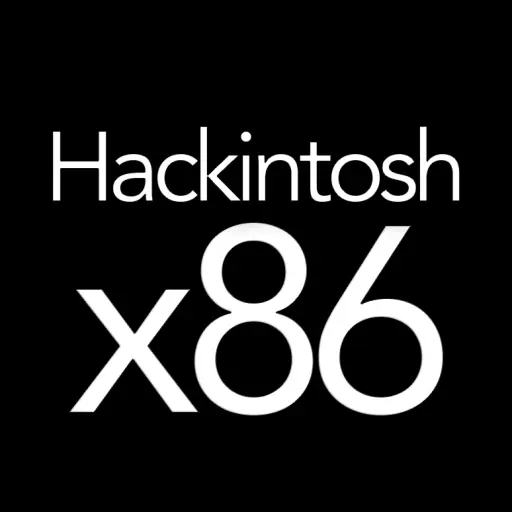
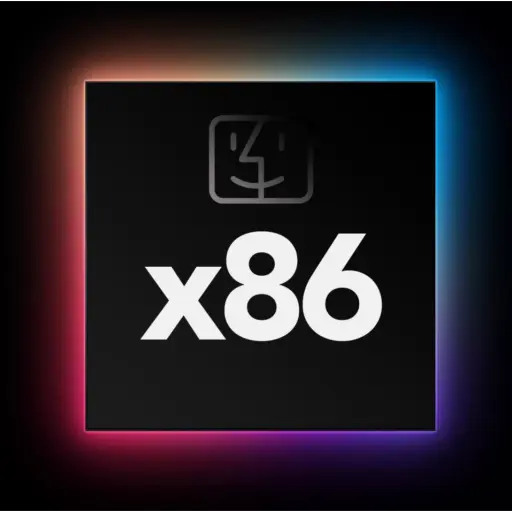
Fix Invalid/Expired Invites (#34)
* Remove developlace.it

Invite link has been invalidated/expired, and at the same time, the server couldn't be found anywhere in publicly accessible places. The server invite link was initially taken from its Git repository.

* Update NodeCG invite

* Update Hackintosh x86 icon

* Update Hackintosh x86 details

* Update *nix nest invite

* Update CyberSecLabs Lounge details

* Remove Akroma Official

Invite link has been invalidated/expired, the official documentation/site/repository all leads to the same invalid link.

* Update Nano invite

* Update Bevy details

* Remove Electronics Repair School

Due to prolonged period of expired invite link, and the absense of any other publicly available link, this community is being removed. It will be relisted as soon as a new working invite will be published.

diff --git a/README.md b/README.md
@@ -108,13 +108,6 @@ Language: English
 Notable Channels: `#javascript`, `#frontend`, `#backend`, `#php`, `#mobile`, `#design`, `#devops`, `#career`, `#code-review`, `#webtopic`, `#desktopic`, `#community-projects`, `#paid-work`\
 Language: English
 
-<img align="left" height="94px" width="94px" alt="Server Icon" src="images/server_icons/developlace_it.webp" />
-
-[__developlace.it__](https://discord.com/invite/Fprsyxz) [<img height="16px" width="16px" alt="Git Repository" src="images/badges/git.webp">](https://github.com/developlace) \
-Notable Channels: `#projects`, `#web`, `#c_cpp`, `#c_sharp`,`#python`, `#jvm`, `#other`, `#pc_zone`, `#mobile_zone` \
-Language: English, Polish \
-<br />
-
 <img align="left" height="94px" width="94px" alt="Server Icon" src="images/server_icons/engineerman.webp" />
 
 [__EngineerMan__](https://discord.com/invite/engineerman) [<img height="16px" width="16px" alt="Official Badge" src="images/badges/official.webp">](badges.md#official-identification-badge) [<img height="16px" width="16px" alt="Homepage URL" src="images/badges/homepage.webp">](https://www.youtube.com/channel/UCrUL8K81R4VBzm-KOYwrcxQ) [<img height="16px" width="16px" alt="Git Repository" src="images/badges/git.webp">](https://github.com/engineer-man) \
@@ -348,12 +341,6 @@ Notable Channels: `#release-branch`, `#development-branch`, `#installation-hassi
 Language: English
 
 ### Hardware
-
-<img align="left" height="94px" width="94px" alt="Server Icon" src="images/server_icons/electronics_repair_school.webp" />
-
-[__Electronics Repair School__](https://discord.com/invite/6zQWaTN) [<img height="16px" width="16px" alt="Official Badge" src="images/badges/official.webp">](badges.md#official-identification-badge) [<img height="16px" width="16px" alt="Homepage URL" src="images/badges/homepage.webp">](https://www.youtube.com/channel/UCooKQlg-HZ0PFAPc4Ymg3RA) [<img height="16px" width="16px" alt="Git Repository" src="images/badges/git.webp">](https://github.com/izy521/Sera-PCMR) \
-Notable Channels: `#projects`, `#tools-and-parts`, `#automative`, `#laptops`, `#phones`, `#tablets`, `#consoles`, `#tv-monitor`, `#batteries`, `#diy-arduino-pi` \
-Language: English
 
 <img align="left" height="94px" width="94px" alt="Server Icon" src="images/server_icons/ltt_official.webp" />
 
@@ -777,7 +764,7 @@ Language: English
 
 <img align="left" height="94px" width="94px" alt="Server Icon" src="images/server_icons/nodecg.webp" />
 
-[__NodeCG__](https://discord.com/invite/NNmVz4x) [<img height="16px" width="16px" alt="Official Badge" src="images/badges/official.webp">](badges.md#official-identification-badge) [<img height="16px" width="16px" alt="Homepage URL" src="images/badges/homepage.webp">](https://nodecg.com/) [<img height="16px" width="16px" alt="Git Repository" src="images/badges/git.webp">](https://github.com/nodecg) \
+[__NodeCG__](https://discord.com/invite/GJ4r8a8) [<img height="16px" width="16px" alt="Official Badge" src="images/badges/official.webp">](badges.md#official-identification-badge) [<img height="16px" width="16px" alt="Homepage URL" src="images/badges/homepage.webp">](https://nodecg.com/) [<img height="16px" width="16px" alt="Git Repository" src="images/badges/git.webp">](https://github.com/nodecg) \
 Notable Channels: `#bundle-dev`, `#core-dev`, `#design`, `#typescript`, `#polymer`, `#vue`, `#react`, `#general`, `#post-your-work`, `#looking-for-dev` \
 Language: English, 日本語
 
@@ -1061,7 +1048,7 @@ Language: English
 
 <img align="left" height="94px" width="94px" alt="Server Icon" src="images/server_icons/hackintosh_x86.webp" />
 
-[__Hackintosh x86__](https://discord.com/invite/hackintosh) [<img height="16px" width="16px" alt="Homepage URL" src="images/badges/homepage.webp">](https://www.osx86.io/) [<img height="16px" width="16px" alt="Git Repository" src="images/badges/git.webp">](https://git.osx86.io/) \
+[__Hackintosh x86__](https://discord.com/invite/55sDptx) [<img height="16px" width="16px" alt="Homepage URL" src="images/badges/homepage.webp">](https://www.hackintoshx86.com/) \
 Notable Channels: `#general-chat`, `#opencore`, `#acpi-ssdt`, `#bios-mods`, `#virtualization`, `#hardware`, `#gaming`, `#efi-database`, `#benchmarks` \
 Language: English
 
@@ -1083,7 +1070,7 @@ Language: English
 
 <img align="left" height="94px" width="94px" alt="Server Icon" src="images/server_icons/nix_nest.webp" />
 
-[__*nix nest__](https://discord.gg/shpxu6T) [<img height="16px" width="16px" alt="Git Repository" src="images/badges/git.webp">](https://github.com/nixnest) \
+[__*nix nest__](https://discord.com/invite/svhXktFkAG) [<img height="16px" width="16px" alt="Git Repository" src="images/badges/git.webp">](https://github.com/nixnest) \
 Notable Channels: `#home`, `#dev-random`, `#support`, `#unixporn`, `#programming`, `#media`, `#hardware`, `#gaming` \
 Language: English \
 <br />
@@ -1306,7 +1293,7 @@ Language: English
 
 <img align="left" height="94px" width="94px" alt="Server Icon" src="images/server_icons/cyberseclabs_lounge.webp" />
 
-[__CyberSecLabs Lounge__](https://discord.com/invite/2C9dmtg) [<img height="16px" width="16px" alt="Homepage URL" src="images/badges/homepage.webp">](https://www.cyberseclabs.co.uk/) \
+[__CyberSecLabs Lounge__](https://discord.com/invite/vy75f7W) [<img height="16px" width="16px" alt="Official Badge" src="images/badges/official.webp">](badges.md#official-identification-badge) [<img height="16px" width="16px" alt="Homepage URL" src="images/badges/homepage.webp">](https://www.cyberseclabs.co.uk/) \
 Notable Channels: `#support-labs`, `#challenge-labs`, `#ctf`, `#technical-help`, `#red-teaming`, `#networking`, `#cryptography`, `#programming` \
 Language: English
 
@@ -1389,9 +1376,9 @@ Language: English
 ### Currencies
 
 <!--lint ignore table-pipe-alignment-->
-| <img align="centre" height="94px" width="94px" alt="Server Icon" src="images/server_icons/akroma_official.webp" /> | <img align="centre" height="94px" width="94px" alt="Server Icon" src="images/server_icons/cardano_community.webp" /> | <img align="centre" height="94px" width="94px" alt="Server Icon" src="images/server_icons/ethergem_egem_and_sfrx.webp" /> | <img align="centre" height="94px" width="94px" alt="Server Icon" src="images/server_icons/groestlcoin.webp" /> | <img align="centre" height="94px" width="94px" alt="Server Icon" src="images/server_icons/metrix_market.webp" /> | <img align="centre" height="94px" width="94px" alt="Server Icon" src="images/server_icons/nano.webp" /> | <img align="centre" height="94px" width="94px" alt="Server Icon" src="images/server_icons/vertcoin.webp" /> |
-| ---------------------- | ------------------- | ------------------- | ------------------- | ------------------- | ------------------- | ------------------- |
-| [__Akroma Official__](https://discord.com/invite/KWC8wtT)<br>[<img align="center" height="16px" width="16px" alt="Official Badge" src="images/badges/official.webp">](badges.md#official-identification-badge) [<img align="center" height="16px" width="16px" alt="Homepage URL" src="images/badges/homepage.webp">](https://akroma.io/) [<img align="center" height="16px" width="16px" alt="Git Repository" src="images/badges/git.webp">](https://github.com/akroma-project/akroma) | [__Cardano<br>Community__](https://discord.com/invite/TUr9RDU)<br>[<img align="center" height="16px" width="16px" alt="Official Badge" src="images/badges/official.webp">](badges.md#official-identification-badge) [<img align="center" height="16px" width="16px" alt="Homepage URL" src="images/badges/homepage.webp">](https://www.cardano.org/) [<img align="center" height="16px" width="16px" alt="Git Repository" src="images/badges/git.webp">](https://github.com/input-output-hk/cardano-sl) | [__EtherGem <br>/ EGEM & SFRX__](https://discord.com/invite/zav3EkW)<br>[<img align="center" height="16px" width="16px" alt="Official Badge" src="images/badges/official.webp">](badges.md#official-identification-badge) [<img align="center" height="16px" width="16px" alt="Homepage URL" src="images/badges/homepage.webp">](https://egem.io/) [<img align="center" height="16px" width="16px" alt="Git Repository" src="images/badges/git.webp">](https://github.com/TeamEGEM) | [__Groestlcoin__](https://discord.com/invite/vCKxQBz)<br>[<img align="center" height="16px" width="16px" alt="Official Badge" src="images/badges/official.webp">](badges.md#official-identification-badge) [<img align="center" height="16px" width="16px" alt="Homepage URL" src="images/badges/homepage.webp">](https://www.groestlcoin.org/) [<img align="center" height="16px" width="16px" alt="Git Repository" src="images/badges/git.webp">](https://github.com/Groestlcoin) | [__Metrix Market__](https://discord.com/invite/5nwrTwJ)<br>[<img align="center" height="16px" width="16px" alt="Official Badge" src="images/badges/official.webp">](badges.md#official-identification-badge) [<img align="center" height="16px" width="16px" alt="Homepage URL" src="images/badges/homepage.webp">](https://www.metrixcoin.com/) [<img align="center" height="16px" width="16px" alt="Git Repository" src="images/badges/git.webp">](https://github.com/TheLindaProjectInc) | [__Nano__](https://discord.com/invite/xjMV7j)<br>[<img align="center" height="16px" width="16px" alt="Official Badge" src="images/badges/official.webp">](badges.md#official-identification-badge) [<img align="center" height="16px" width="16px" alt="Homepage URL" src="images/badges/homepage.webp">](https://nano.org/) [<img align="center" height="16px" width="16px" alt="Git Repository" src="images/badges/git.webp">](https://github.com/nanocurrency) | [__Vertcoin<br>- Official__](https://discord.com/invite/vertcoin)<br>[<img align="center" height="16px" width="16px" alt="Official Badge" src="images/badges/official.webp">](badges.md#official-identification-badge) [<img align="center" height="16px" width="16px" alt="Homepage URL" src="images/badges/homepage.webp">](https://vertcoin.org/) [<img align="center" height="16px" width="16px" alt="Git Repository" src="images/badges/git.webp">](https://github.com/vertcoin-project) |
+| <img align="centre" height="94px" width="94px" alt="Server Icon" src="images/server_icons/cardano_community.webp" /> | <img align="centre" height="94px" width="94px" alt="Server Icon" src="images/server_icons/ethergem_egem_and_sfrx.webp" /> | <img align="centre" height="94px" width="94px" alt="Server Icon" src="images/server_icons/groestlcoin.webp" /> | <img align="centre" height="94px" width="94px" alt="Server Icon" src="images/server_icons/metrix_market.webp" /> | <img align="centre" height="94px" width="94px" alt="Server Icon" src="images/server_icons/nano.webp" /> | <img align="centre" height="94px" width="94px" alt="Server Icon" src="images/server_icons/vertcoin.webp" /> |
+| ------------------- | ------------------- | ------------------- | ------------------- | ------------------- | ------------------- |
+| [__Cardano<br>Community__](https://discord.com/invite/TUr9RDU)<br>[<img align="center" height="16px" width="16px" alt="Official Badge" src="images/badges/official.webp">](badges.md#official-identification-badge) [<img align="center" height="16px" width="16px" alt="Homepage URL" src="images/badges/homepage.webp">](https://www.cardano.org/) [<img align="center" height="16px" width="16px" alt="Git Repository" src="images/badges/git.webp">](https://github.com/input-output-hk/cardano-sl) | [__EtherGem <br>/ EGEM & SFRX__](https://discord.com/invite/zav3EkW)<br>[<img align="center" height="16px" width="16px" alt="Official Badge" src="images/badges/official.webp">](badges.md#official-identification-badge) [<img align="center" height="16px" width="16px" alt="Homepage URL" src="images/badges/homepage.webp">](https://egem.io/) [<img align="center" height="16px" width="16px" alt="Git Repository" src="images/badges/git.webp">](https://github.com/TeamEGEM) | [__Groestlcoin__](https://discord.com/invite/vCKxQBz)<br>[<img align="center" height="16px" width="16px" alt="Official Badge" src="images/badges/official.webp">](badges.md#official-identification-badge) [<img align="center" height="16px" width="16px" alt="Homepage URL" src="images/badges/homepage.webp">](https://www.groestlcoin.org/) [<img align="center" height="16px" width="16px" alt="Git Repository" src="images/badges/git.webp">](https://github.com/Groestlcoin) | [__Metrix Market__](https://discord.com/invite/5nwrTwJ)<br>[<img align="center" height="16px" width="16px" alt="Official Badge" src="images/badges/official.webp">](badges.md#official-identification-badge) [<img align="center" height="16px" width="16px" alt="Homepage URL" src="images/badges/homepage.webp">](https://www.metrixcoin.com/) [<img align="center" height="16px" width="16px" alt="Git Repository" src="images/badges/git.webp">](https://github.com/TheLindaProjectInc) | [__Nano__](https://chat.nano.org/)<br>[<img align="center" height="16px" width="16px" alt="Official Badge" src="images/badges/official.webp">](badges.md#official-identification-badge) [<img align="center" height="16px" width="16px" alt="Homepage URL" src="images/badges/homepage.webp">](https://nano.org/) [<img align="center" height="16px" width="16px" alt="Git Repository" src="images/badges/git.webp">](https://github.com/nanocurrency) | [__Vertcoin<br>- Official__](https://discord.com/invite/vertcoin)<br>[<img align="center" height="16px" width="16px" alt="Official Badge" src="images/badges/official.webp">](badges.md#official-identification-badge) [<img align="center" height="16px" width="16px" alt="Homepage URL" src="images/badges/homepage.webp">](https://vertcoin.org/) [<img align="center" height="16px" width="16px" alt="Git Repository" src="images/badges/git.webp">](https://github.com/vertcoin-project) |
 
 ## Game Development
 
@@ -1477,7 +1464,7 @@ Language: English, français \
 
 <img align="left" height="94px" width="94px" alt="Server Icon" src="images/server_icons/bevy.webp" />
 
-[__Bevy__](https://discord.com/invite/UXvRHG) [<img height="16px" width="16px" alt="Official Badge" src="images/badges/official.webp">](badges.md#official-identification-badge) [<img height="16px" width="16px" alt="Homepage URL" src="images/badges/homepage.webp">](https://bevyengine.org/) [<img height="16px" width="16px" alt="Git Repository" src="images/badges/git.webp">](https://github.com/bevyengine/) \
+[__Bevy Engine__](https://discord.com/invite/gMUk5Ph) [<img height="16px" width="16px" alt="Official Badge" src="images/badges/official.webp">](badges.md#official-identification-badge) [<img height="16px" width="16px" alt="Homepage URL" src="images/badges/homepage.webp">](https://bevyengine.org/) [<img height="16px" width="16px" alt="Git Repository" src="images/badges/git.webp">](https://github.com/bevyengine/) \
 Notable Channels: `#general`, `#help`, `#code-review`, `#showcase`, `#tutorials`, `#dev-general`, `#assets`, `#audio`, `#documentation`, `#ecs`, `#ui`, `#rendering` \
 Language: English
 <br />
